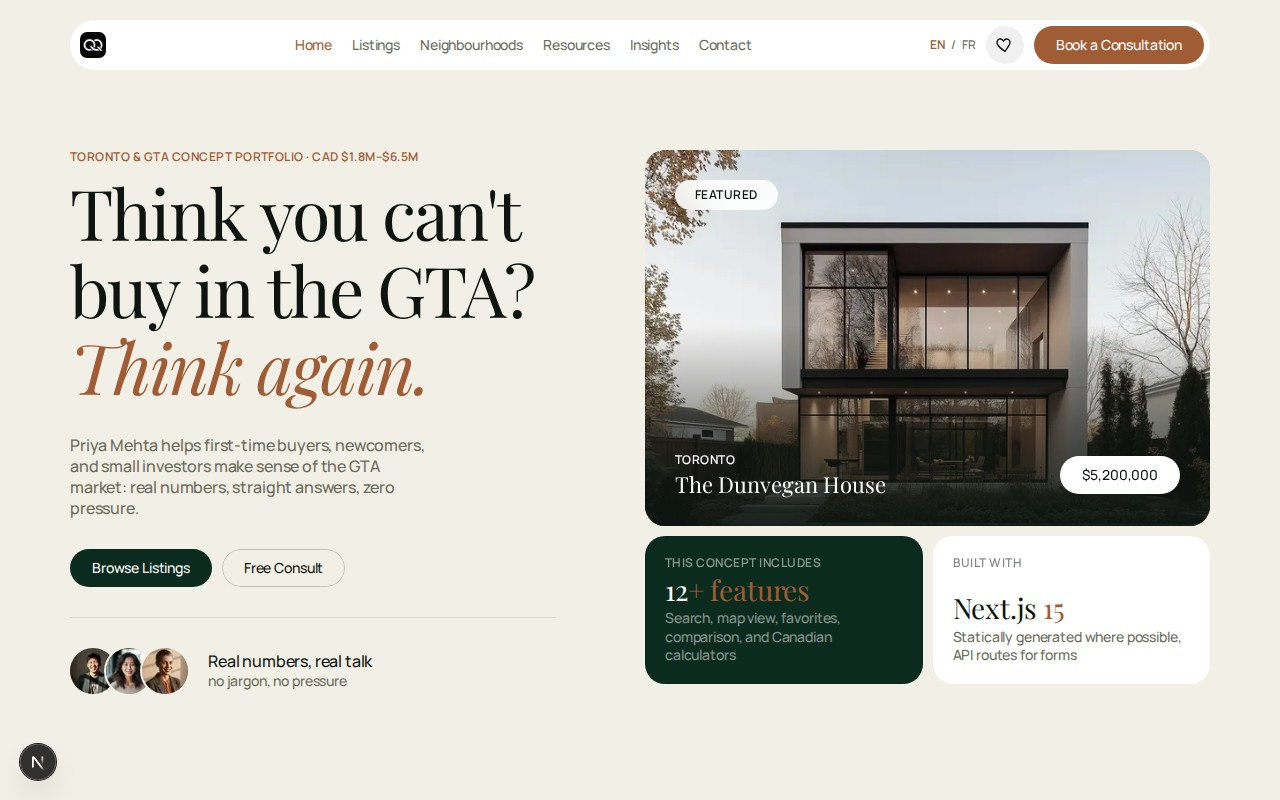
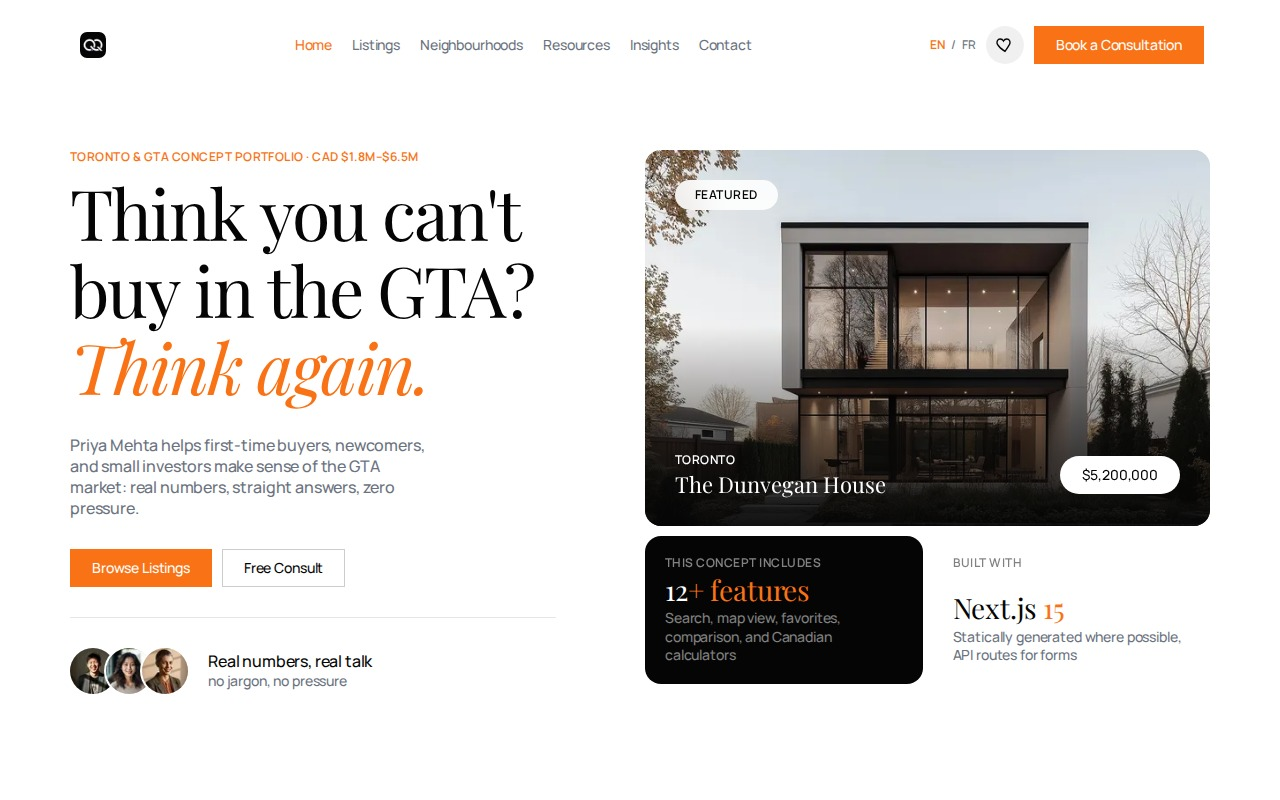
Sync Realty Starter screenshot and copy with the live site rebrand
realty.sliiqque.space was rebranded today (sliiqque-realty-starter
commit 3ad9af2) from the forest-green/cream/terracotta theme to
SLIIQQUE's white/near-black/orange light theme, but the case study
screenshot and admin-panel description still showed the old look.
Re-captured the hero screenshot from the live site and updated the
palette description and hero/card background colors to match.

diff --git a/src/app/work/realty-starter/CaseStudyClient.tsx b/src/app/work/realty-starter/CaseStudyClient.tsx
@@ -31,7 +31,7 @@ SLIIQQUE holds no real-estate licence. The agent, brokerage name, licence number
 2. Two Canadian calculators: mortgage (with CMHC/bi-weekly rules) and land transfer tax (Ontario/Toronto/BC brackets)
 3. A dedicated page for buyers purchasing Toronto property remotely from Nigeria — video tours, non-resident financing, foreign-buyer rules, and naira-to-dollar planning — connecting SLIIQQUE's Lagos base to its Toronto demo market
 4. Insights articles, Reviews, Team profiles, Open Houses, Favorites, Compare, FAQ, Privacy/Terms/Accessibility, custom 404/500, sitemap/robots
-5. Admin panel at /admin, themed to the site's forest-green, cream, and terracotta palette, for listings, agents, neighbourhoods, articles, testimonials, and leads
+5. Admin panel at /admin, themed to the site's white, near-black, and signature-orange SLIIQQUE palette, for listings, agents, neighbourhoods, articles, testimonials, and leads
 6. A compliance footer on every page: agent, brokerage, licence, regulator, and correct REALTOR®/MLS® trademark wording`,
   results: `• A market-ready offer for Canadian real estate agents, not an internal boilerplate — live, compliant, and one re-skin away from a real brokerage launch
 • Full spec-compliant page set shipped and self-audited against a 300+ line production checklist, graded done-in-code, wired-but-needs-credentials, or manual-client-step
@@ -53,7 +53,7 @@ export default function CaseStudyClient() {
       description="A bilingual, REALTOR®-compliant website offer for Canadian real estate agents — built-in CMS, Canadian mortgage and land-transfer-tax calculators, and searchable listings."
       heroImage="/images/realty-starter-screenshot.jpg"
       heroAlt="Realty Starter homepage with Toronto and GTA property search"
-      heroBgColor="#102E26"
+      heroBgColor="#050505"
       externalUrl={{ url: "https://realty.sliiqque.space", label: "realty.sliiqque.space" }}
       contact={null}
       useInteractiveTitle={false}

diff --git a/src/data/projects.ts b/src/data/projects.ts
@@ -81,7 +81,7 @@ export const projects: Project[] = [
     imageSrc: "/images/realty-starter-screenshot.jpg",
     imageAlt: "Realty Starter homepage with Toronto and GTA property search",
     href: "/work/realty-starter",
-    bgColor: "#102E26",
+    bgColor: "#050505",
     outcomes: [
       "A market-ready website offer for Canadian real estate agents and brokerages, not an internal boilerplate — live, compliant, and one re-skin away from a real launch",
       "Full spec-driven page set shipped and self-audited against a 300+ line production checklist",
